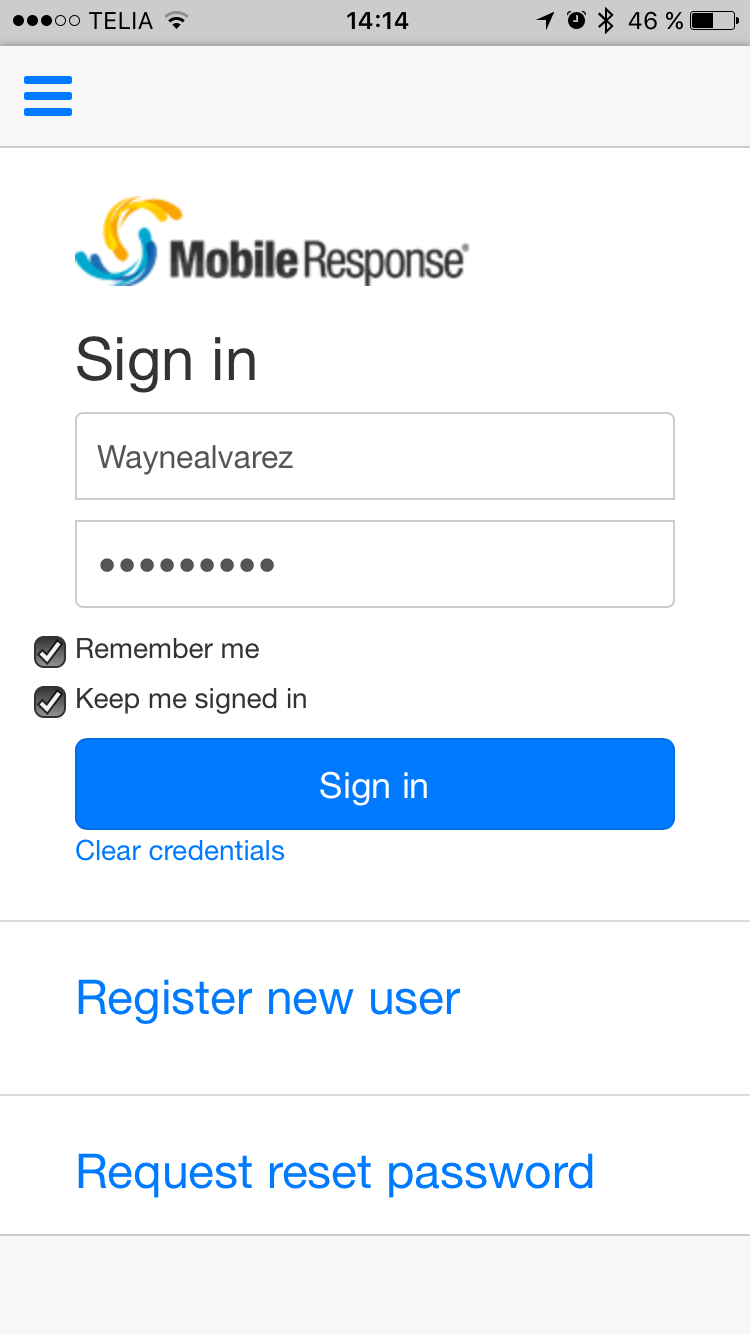
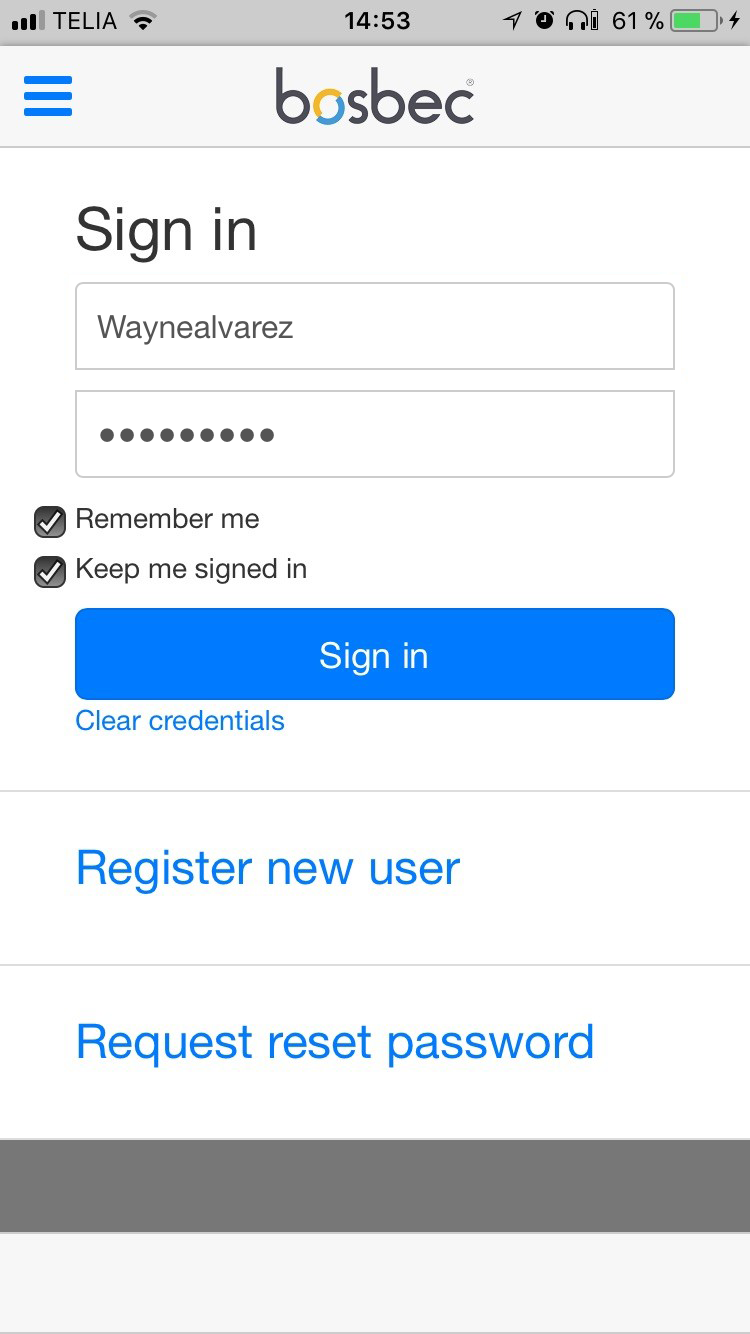
new intro images

diff --git a/www/Partials/mr-services.htm b/www/Partials/mr-services.htm
@@ -12,7 +12,7 @@
                 </div>-->
 
                 <div ng-repeat="item in items" class="list-group-item">
-                    <div ng-hide="item.expand" ng-click="ToggleInfo(item)">
+                    <div ng-hide="item.expand" ng-click="ExpandInfo(item)">
                         <i class="fa fa-chevron-down pull-right"></i>
                     </div>
                     <div ng-show="item.expand" ng-click="ToggleInfo(item)">
@@ -23,20 +23,20 @@
                     </div>
                     <div>
                         <div class="unit-info-container">
-                            <div ng-show="item.data.type==='execute-from-app'">
-                                <textarea class="form-control" style="width: 60%" ng-model="executeServiceText"></textarea>
-                                <a ng-click="ExecuteService(item, executeServiceText)" class="btn btn-primary btn-align-right">Start</a>
-                            </div>
                             <div>
                                 <span ng-show="item.data.templateName"><b>{{item.data.templateName}}</b></span>
                                 <br />
                                 <span ng-show="item.data.description">{{item.data.description}}</span>
                             </div>
+                            <div class="service-exe-container" ng-show="item.data.executeFromApp==='true'">
+                                <input type="text" class="form-control service-exe-text" ng-model="executeServiceText" />
+                                <a ng-click="ExecuteService(item, executeServiceText)" class="btn btn-primary service-exe-btn">Start</a>
+                            </div>
                         </div>
-                            
                         <div class="unit-metadata-container" ng-show="item.expand || expandItems">
                             <div class="unit-metadata-item" ng-repeat="parameter in item.data.configurableParameters">
-                                <div><b>Parameter: {{$index}}</b></div>
+                                <div><b>Parameter: {{$index}}</b>
+                                </div>
                                 <div class="unit-metadata-key">Alias</div>
                                 <div class="unit-metadata-value">{{parameter.alias}}</div><br/>
                                 <div class="unit-metadata-key">Title</div>

diff --git a/www/Controllers/IntroController.js b/www/Controllers/IntroController.js
@@ -20,9 +20,9 @@
         $scope.introContent = [
             {
                 'heading': 'Welcome',
-                'ingress': 'Welcome to the Mobile Response Messaging App',
-                'text': 'This app requires a Mobile Response account',
-                'image': './images/mr-logo-vertical.png'
+                'ingress': 'Welcome to the Bosbec App',
+                'text': 'This app requires a Bosbec account',
+                'image': './images/logo-bosbec-w800-transp-padding.png'
             },
             {
                 'heading': 'Register',
@@ -64,7 +64,7 @@
                 'heading': 'Get Started',
                 'ingress': '',
                 'text': 'That concludes the introduction. You can find the introduction in the main menu, should you need it.',
-                'image': './images/mr-logo-vertical.png'
+                'image': './images/logo-bosbec-w800-transp-padding.png'
             }
         ];
         

diff --git a/www/Partials/intro.htm b/www/Partials/intro.htm
@@ -13,7 +13,7 @@
                             <p class="intro-heading">{{content.ingress}}</p>
                             <p>{{content.text}}</p>
                             <p>
-                                For more information visit<br /><a href="http://www.mobileresponse.com">http://www.mobileresponse.com</a>
+                                For more information visit<br /><a href="http://www.bosbec.com">http://www.bosbec.com</a>
                             </p>
                         </div>
                         <div ng-show="currentPage > 1 && currentPage < numberOfPages">

diff --git a/www/css/style.css b/www/css/style.css
@@ -352,7 +352,7 @@
     height: 42px;
 }
 .unit-info-container {
-    
+    display: block;
 }
 .unit-metadata-container {
     display: block;
@@ -379,6 +379,24 @@
 }
 .hideMessageContainer {
     float: right;
+}
+
+.service-exe-text {
+    width: 80%;
+    display: inline-block;
+}
+.service-exe-btn {
+    width: 19%;
+    float: right;
+    display: inline-block;
+    height: 100%;
+}
+.service-exe-container {
+    position: relative;
+    display: block;
+    background-color: #fff;
+    padding-top: 10px;
+    
 }
 
 
